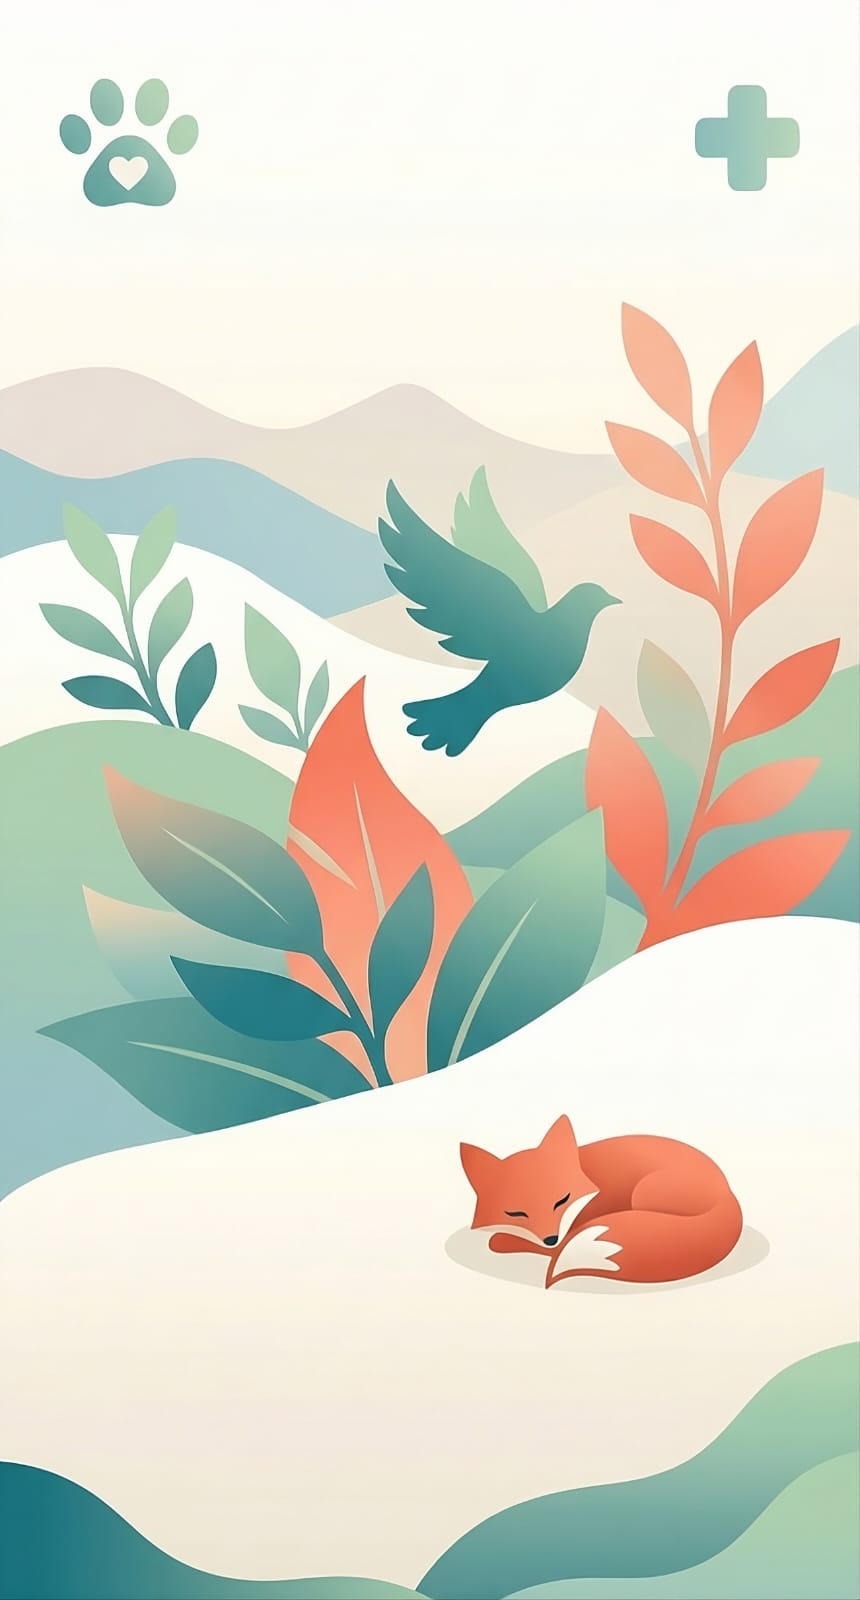
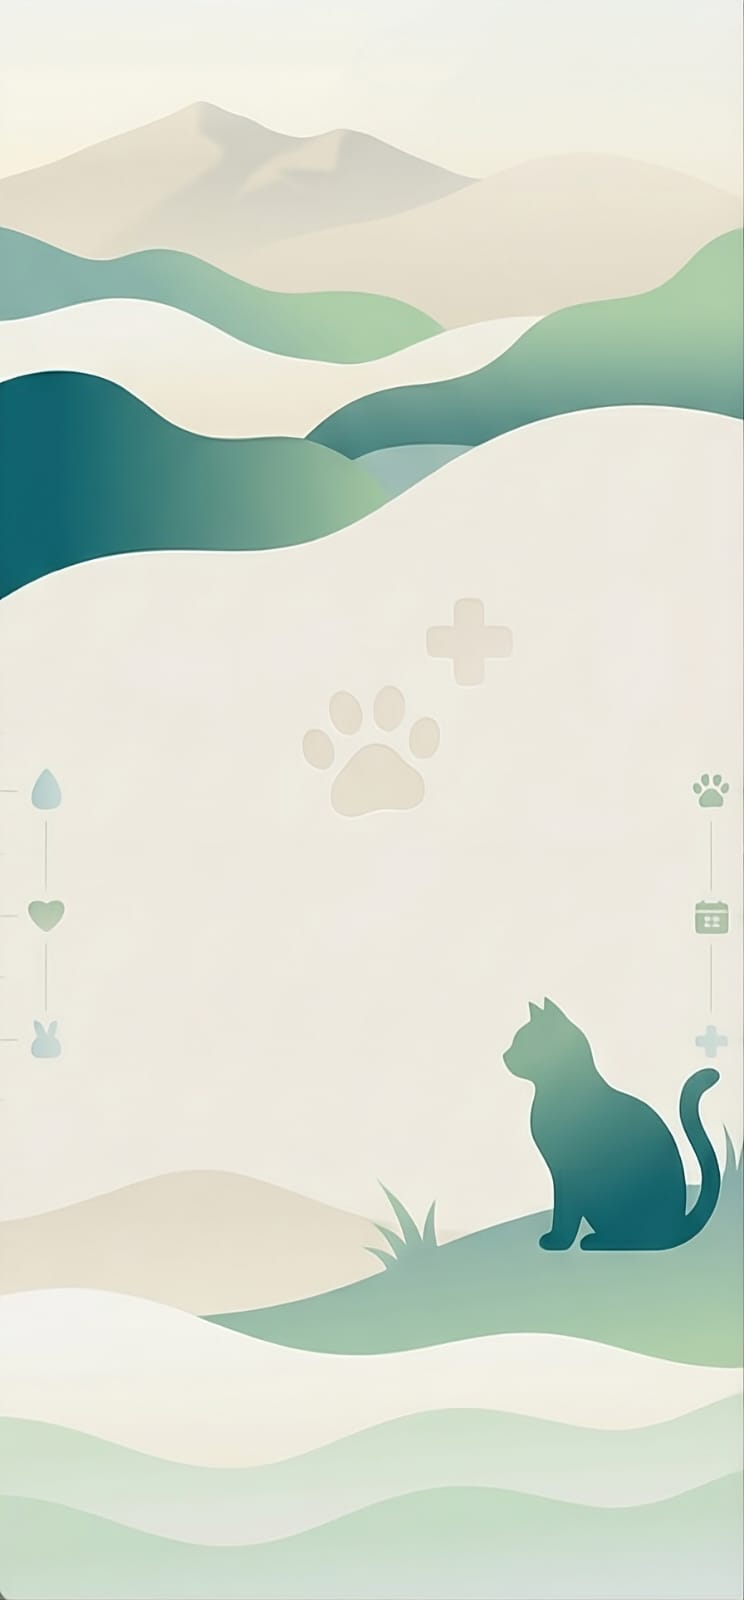
Carga Final

diff --git a/lib/services/pdf_generator_service.dart b/lib/services/pdf_generator_service.dart
@@ -1,5 +1,6 @@
 import 'dart:io';
 import 'dart:typed_data';
+import 'package:http/http.dart' as http;
 import 'package:pdf/pdf.dart';
 import 'package:pdf/widgets.dart' as pw;
 import 'package:path_provider/path_provider.dart';
@@ -8,17 +9,15 @@ import 'package:printing/printing.dart';
 import '../models/pet.dart';
 
 class PdfGeneratorService {
-  // ── Nueva paleta de colores ──────────────────────────────────────────────
-  static const PdfColor _primary     = PdfColor.fromInt(0xFF007777); // Turquesa oscuro
-  static const PdfColor _primaryLight= PdfColor.fromInt(0xFF00A3A3); // Turquesa claro
-  static const PdfColor _mint        = PdfColor.fromInt(0xFFE0F7FA); // Verde menta
-  static const PdfColor _beige       = PdfColor.fromInt(0xFFF5F5F0); // Beige tierra
-  static const PdfColor _textDark    = PdfColor.fromInt(0xFF1A1A3A); // Azul marino
-  static const PdfColor _textMedium  = PdfColor.fromInt(0xFF333333); // Gris oscuro
-  static const PdfColor _textLight   = PdfColor.fromInt(0xFF666666); // Gris medio
-  static const PdfColor _coral       = PdfColor.fromInt(0xFFFF8C69); // Naranja coral
-  static const PdfColor _white       = PdfColor.fromInt(0xFFFEFEFE); // Blanco crudo
-  static const PdfColor _border      = PdfColor.fromInt(0xFF00A3A3); // Borde turquesa
+  // ── Paleta de colores ────────────────────────────────────────────────────
+  static const PdfColor _primary      = PdfColor.fromInt(0xFF007777);
+  static const PdfColor _primaryLight = PdfColor.fromInt(0xFF00A3A3);
+  static const PdfColor _mint         = PdfColor.fromInt(0xFFE0F7FA);
+  static const PdfColor _beige        = PdfColor.fromInt(0xFFF5F5F0);
+  static const PdfColor _textDark     = PdfColor.fromInt(0xFF1A1A3A);
+  static const PdfColor _textLight    = PdfColor.fromInt(0xFF666666);
+  static const PdfColor _white        = PdfColor.fromInt(0xFFFEFEFE);
+  static const PdfColor _border       = PdfColor.fromInt(0xFF00A3A3);
 
   static Future<String> generateAndOpen(Pet pet) async {
     final pdfBytes = await _buildPdf(pet);
@@ -39,17 +38,37 @@ class PdfGeneratorService {
     );
   }
 
+  // Carga los bytes de la imagen sin importar si es URL remota o ruta local.
+  // Devuelve null si no hay foto o si falla la carga (el PDF se genera igual,
+  // con el círculo de inicial como respaldo).
+  static Future<Uint8List?> _loadPhotoBytes(String? photoPath) async {
+    if (photoPath == null || photoPath.isEmpty) return null;
+    try {
+      if (photoPath.startsWith('http://') || photoPath.startsWith('https://')) {
+        // Foto en Supabase Storage: descarga los bytes vía HTTP
+        final response = await http.get(Uri.parse(photoPath))
+            .timeout(const Duration(seconds: 10));
+        if (response.statusCode == 200) return response.bodyBytes;
+        return null;
+      } else {
+        // Ruta local (compatibilidad con datos viejos antes del fix de Storage)
+        final file = File(photoPath);
+        if (await file.exists()) return await file.readAsBytes();
+        return null;
+      }
+    } catch (_) {
+      return null;
+    }
+  }
+
   static Future<Uint8List> _buildPdf(Pet pet) async {
     final pdf = pw.Document();
 
+    // Carga la imagen correctamente tanto desde URL como desde ruta local
     pw.MemoryImage? petImage;
-    if (pet.photoPath != null) {
-      try {
-        final imgFile = File(pet.photoPath!);
-        if (await imgFile.exists()) {
-          petImage = pw.MemoryImage(await imgFile.readAsBytes());
-        }
-      } catch (_) {}
+    final photoBytes = await _loadPhotoBytes(pet.photoPath);
+    if (photoBytes != null) {
+      petImage = pw.MemoryImage(photoBytes);
     }
 
     pdf.addPage(
@@ -60,7 +79,6 @@ class PdfGeneratorService {
           return pw.Container(
             width: double.infinity,
             decoration: pw.BoxDecoration(
-              // Borde rectangular turquesa alrededor de todo el contenido
               border: pw.Border.all(color: _border, width: 2.5),
               borderRadius: pw.BorderRadius.circular(14),
             ),
@@ -98,21 +116,17 @@ class PdfGeneratorService {
                       // Foto o inicial
                       petImage != null
                           ? pw.Container(
-                        width: 64,
-                        height: 64,
+                        width: 64, height: 64,
                         decoration: pw.BoxDecoration(
                           shape: pw.BoxShape.circle,
-                          border: pw.Border.all(
-                              color: _white, width: 2.5),
+                          border: pw.Border.all(color: _white, width: 2.5),
                         ),
                         child: pw.ClipOval(
-                          child: pw.Image(petImage,
-                              fit: pw.BoxFit.cover),
+                          child: pw.Image(petImage, fit: pw.BoxFit.cover),
                         ),
                       )
                           : pw.Container(
-                        width: 64,
-                        height: 64,
+                        width: 64, height: 64,
                         decoration: pw.BoxDecoration(
                           shape: pw.BoxShape.circle,
                           color: _mint,
@@ -210,7 +224,6 @@ class PdfGeneratorService {
       child: pw.Column(
         crossAxisAlignment: pw.CrossAxisAlignment.start,
         children: [
-          // Título con fondo turquesa claro
           pw.Container(
             width: double.infinity,
             padding: const pw.EdgeInsets.symmetric(
@@ -230,7 +243,6 @@ class PdfGeneratorService {
                   color: _white),
             ),
           ),
-          // Filas con fondo blanco crudo
           pw.Container(
             color: _beige,
             padding: const pw.EdgeInsets.all(14),
@@ -250,8 +262,7 @@ class PdfGeneratorService {
           pw.SizedBox(
             width: 140,
             child: pw.Text(label,
-                style: pw.TextStyle(
-                    fontSize: 10, color: _textLight)),
+                style: pw.TextStyle(fontSize: 10, color: _textLight)),
           ),
           pw.Expanded(
             child: pw.Text(value,
